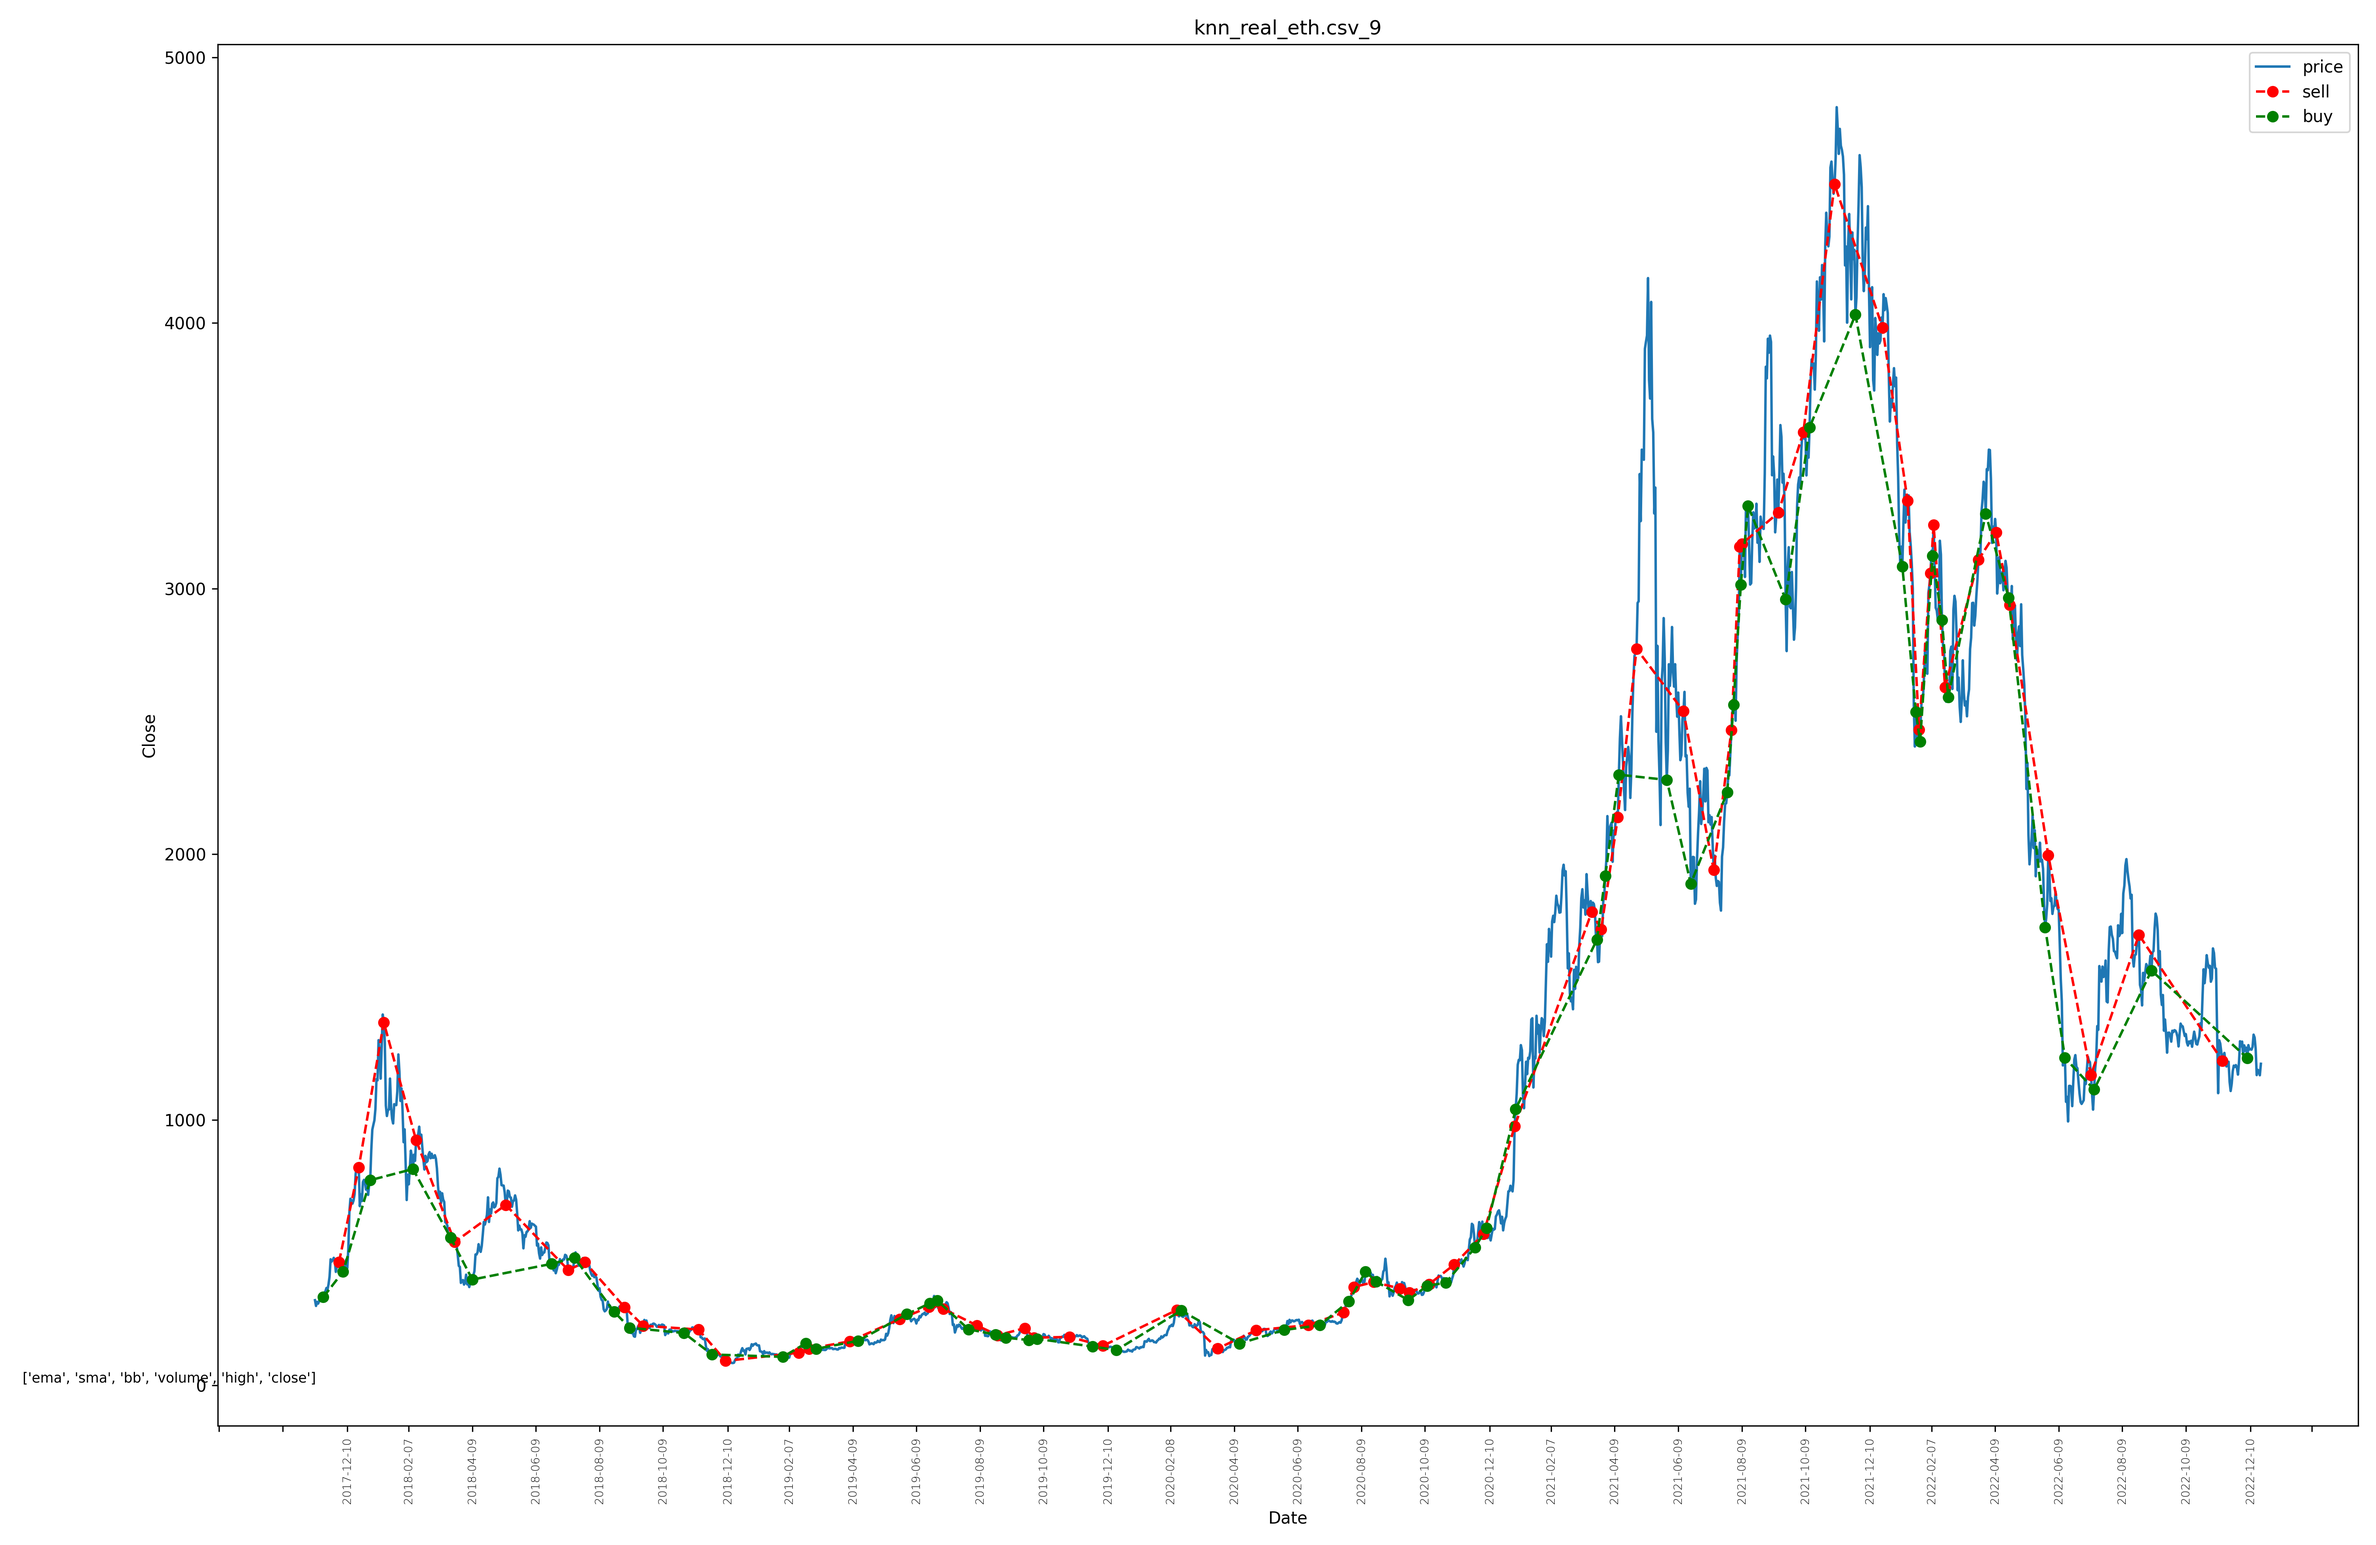
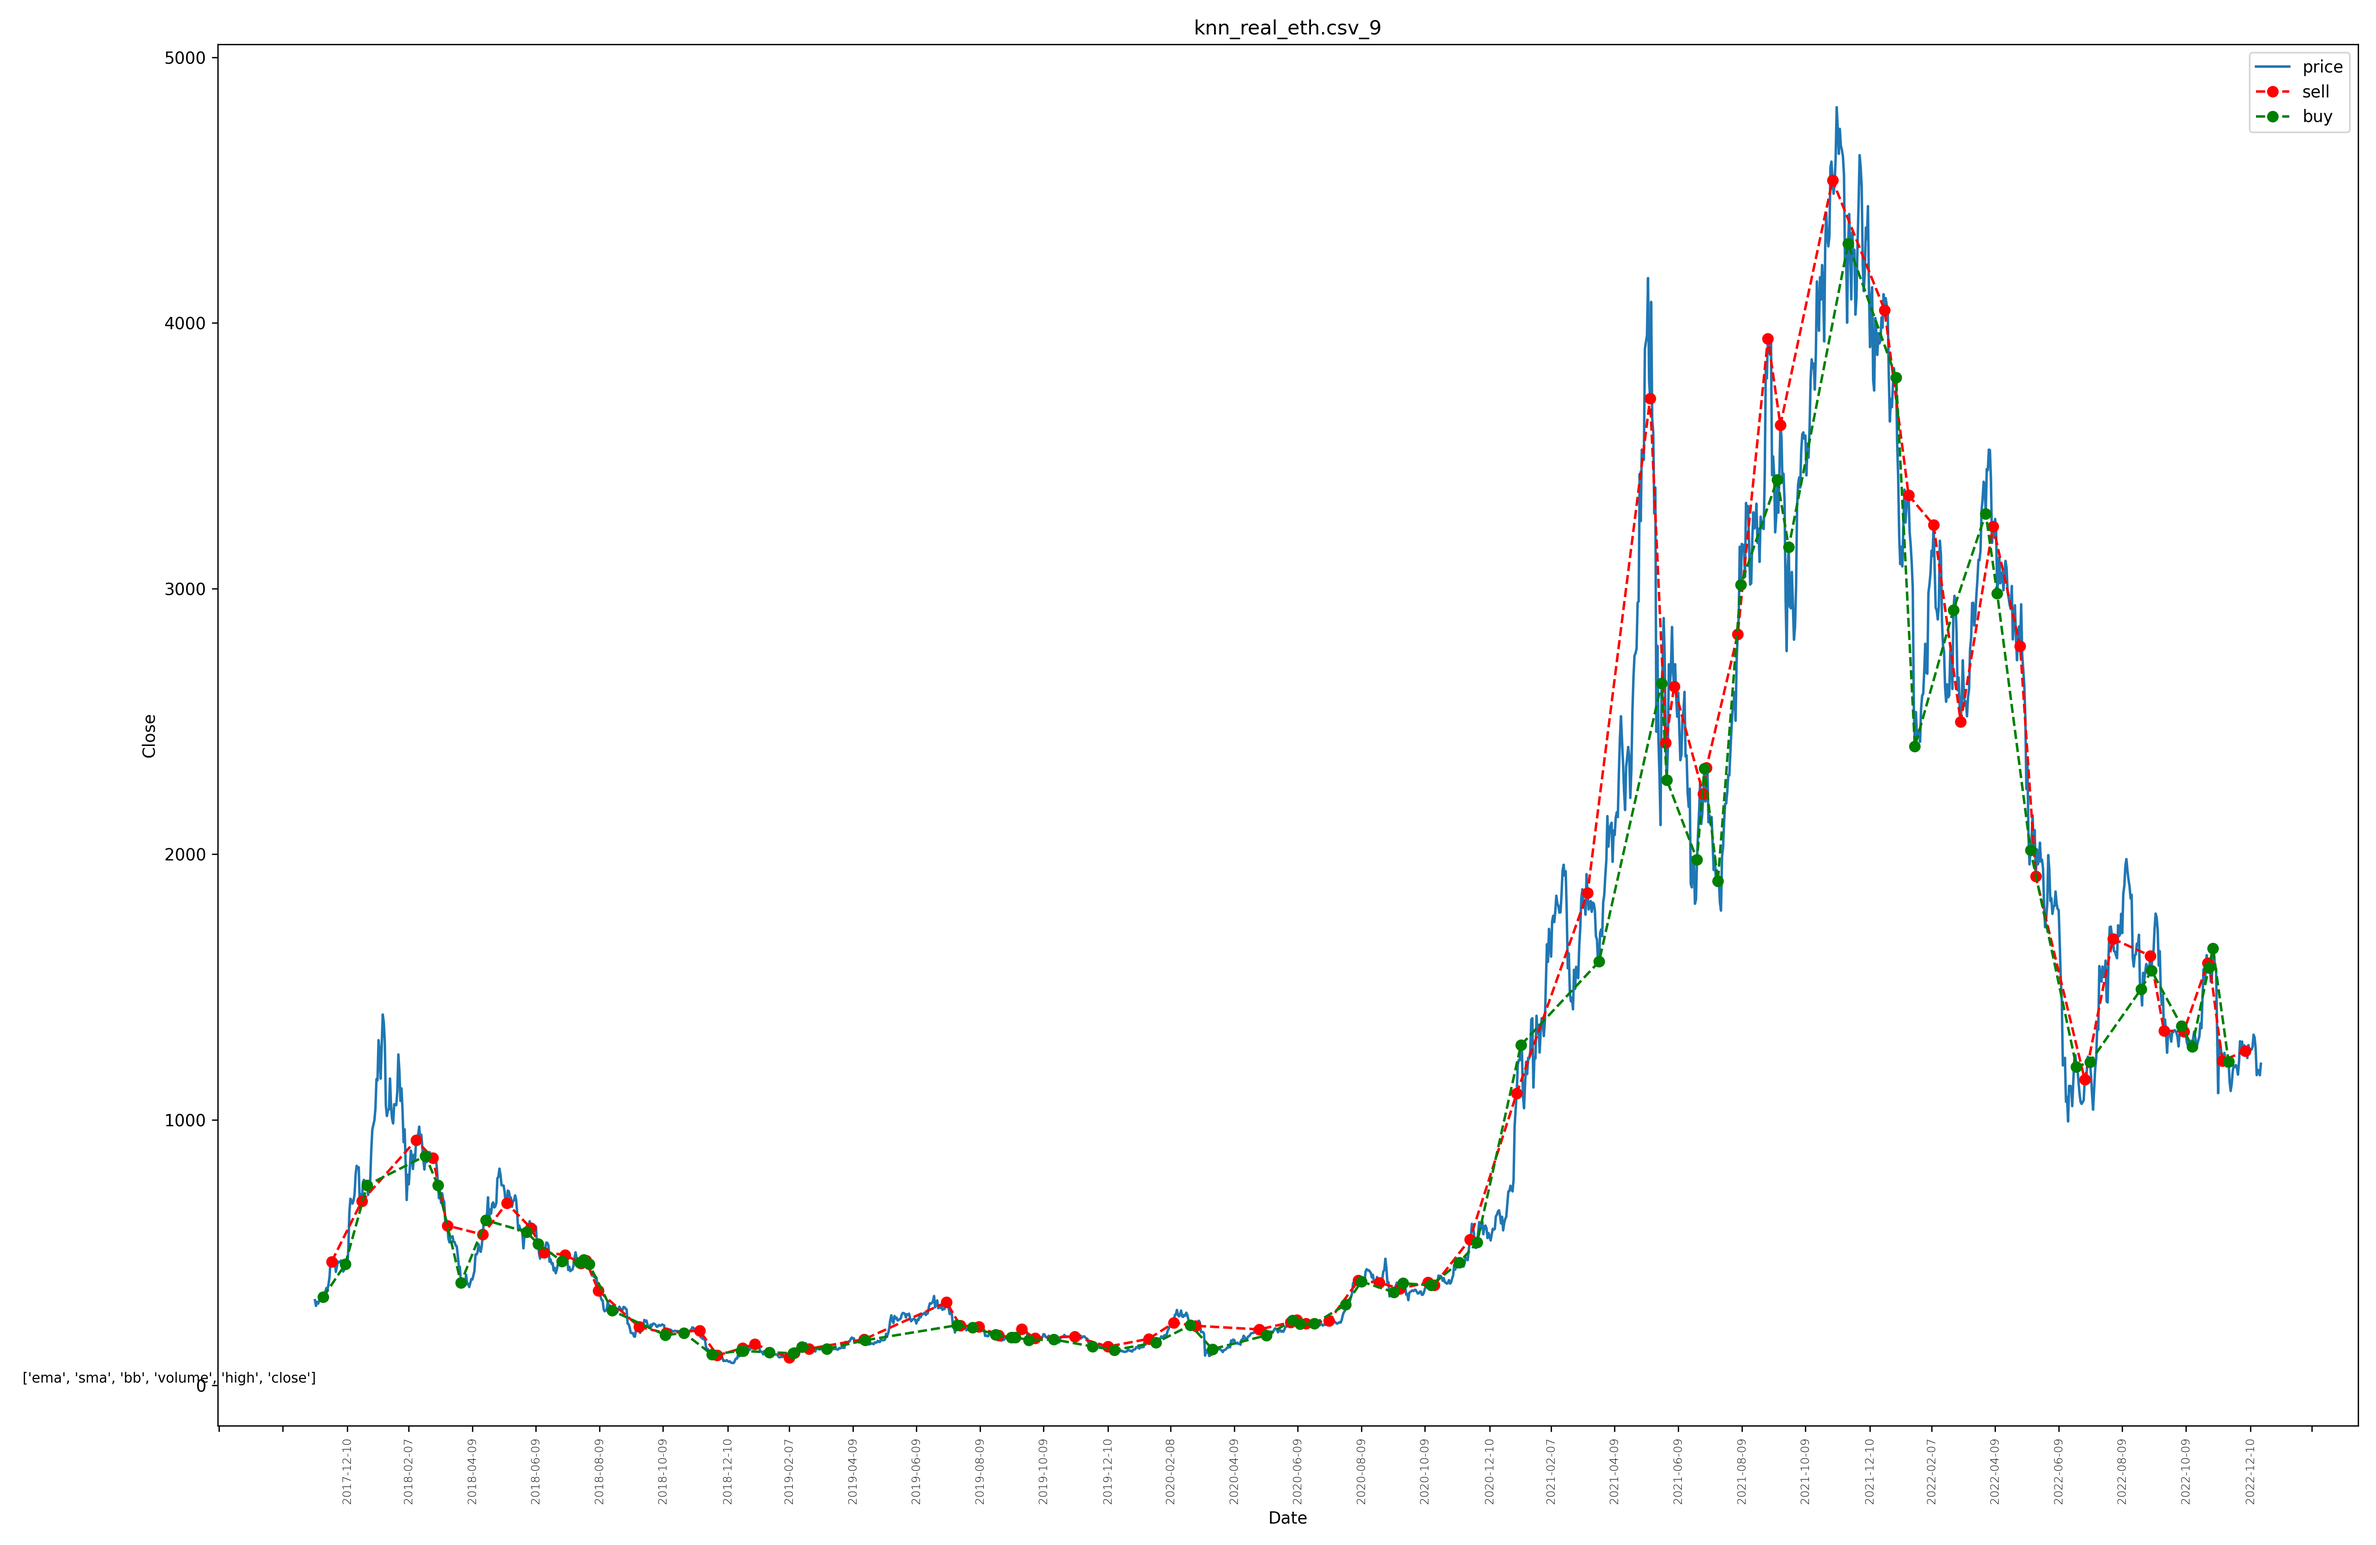
zsdf

diff --git a/analyzer.py b/analyzer.py
@@ -1,7 +1,7 @@
 import pandas as pd
 import numpy as np
 import matplotlib
-
+from datetime import datetime
 matplotlib.use('TkAgg')
 
 import matplotlib.dates as mdates
@@ -91,6 +91,32 @@ def compute_simple_baseline(close_df, share_amount, start_val, commission=9.95, 
     print('The share increased by {} %'.format(percent_increase))
     return filled_orders
 
+def compute_yearly_gains(order_book):
+    yearly_gains_dict = {}
+    order_book_start = datetime.strptime(order_book.index[0], '%Y-%m-%d')
+    order_book_end = datetime.strptime(order_book.index[-1], '%Y-%m-%d')
+    x = 1
+    date_holder = '{}-{}-{}'.format(order_book_start.year, order_book_start.month, order_book_start.day)
+    next_years_date = '{}-{}-{}'.format(order_book_start.year + x, order_book_start.month, order_book_start.day)
+    while int(next_years_date.split('-')[0]) <= int(order_book_end.year):
+        yearly_gain = ((order_book.loc[date_holder:next_years_date].sum()['total_liquid_cash'] - order_book.loc[:date_holder]['total_liquid_cash'][-1])/abs(order_book.loc[:date_holder]['total_liquid_cash'][-1]) * 100)
+        print('From {} to {} the yearly gain is {}'.format(date_holder, next_years_date, yearly_gain))
+        date_holder = next_years_date
+        yearly_gains_dict[x] = yearly_gain
+        x += 1
+        next_years_date = '{}-{}-{}'.format(order_book_start.year + x, order_book_start.month, order_book_start.day)
+
+    order_book_end_str = '{}-{}-{}'.format(order_book_end.year, order_book_end.month, order_book_end.day)
+    remaining_gains = order_book.loc[date_holder:order_book_end_str].sum()['total_liquid_cash']
+    if remaining_gains > 0.0:
+        yearly_gain = ((order_book.loc[date_holder:order_book_end_str].sum()['total_liquid_cash'] -
+                        order_book.loc[:date_holder]['total_liquid_cash'][-1]) / abs(order_book.loc[:date_holder]['total_liquid_cash'][-1]) * 100)
+        yearly_gains_dict[x] = yearly_gain
+
+    total_percent_gain = ((order_book['total_liquid_cash'].sum() - order_book['total_liquid_cash'][0]) / abs(
+        order_book['total_liquid_cash'][0])) * 100
+    print('THE TOTAL % gain : {}'.format(total_percent_gain))
+    return yearly_gains_dict
 
 def compute_spy(spy_df, share_amount, start_val, commission=9.95, impact=0.005):
     spy_df_copy = spy_df.copy()
@@ -129,10 +155,15 @@ def compare_strategies(buy_sell_order_book, long_short_order_book, target_close_
                      args["indicators"], args['length'])
     print('generating buy and sell')
     buy_sell_portfolio_values = compute_portvals(buy_sell_order_book, target_close_df, args['starting_value'])
-    compute_simple_baseline(target_close_df, args['share_amount'], args['starting_value'])
-    spy_portfolio_values = compute_spy(spy_close_df, args['share_amount'], args['starting_value'], commission=0,
-                                       impact=0)
+    target_hold_portfolio = compute_simple_baseline(target_close_df, int(args['share_amount']), args['starting_value'])
+    spy_hold_portfolio = spy_portfolio_values = compute_spy(spy_close_df, int(args['share_amount']), args['starting_value'], commission=0, impact=0)
     graph_spy(spy_portfolio_values, spy_close_df)
+    import pdb
+    pdb.set_trace()
+    # compute_yearly_gains(long_short_portfolio_values)
+    compute_yearly_gains(buy_sell_portfolio_values)
+    # compute_yearly_gains(target_hold_portfolio)
+    # compute_yearly_gains(spy_hold_portfolio)
 
 
 

diff --git a/tester.py b/tester.py
@@ -2,27 +2,49 @@ import unittest
 import os
 from utils import constants
 import pandas as pd
-from analyzer import compute_portvals, graph_order_book
+from analyzer import compute_portvals, graph_order_book, compute_yearly_gains
 import tech_indicators
-
+from datetime import datetime
 
 class TestMarketSimETH(unittest.TestCase):
     def setUp(self):
         file_name = os.path.join(constants.YAHOO_DATA_DIR, 'real_eth.csv')
         self.data_frame_from_file = tech_indicators.read_df_from_file(file_name)
-        self.order_bk = pd.read_csv('tester1.csv', index_col=[0], header=[0], skipinitialspace=True)
+        self.long_short_order_bk = pd.read_csv('tester1.csv', index_col=[0], header=[0], skipinitialspace=True)
 
-    def test_create_correct_order_book(self):
-        order_book = compute_portvals(self.order_bk, self.data_frame_from_file[['Close']])
-        sum_series = order_book.sum()
+    def test_create_long_short_portfolio(self):
+        portfolio = compute_portvals(self.long_short_order_bk, self.data_frame_from_file[['Close']], 0)
+        sum_series = portfolio.sum()
         self.assertEqual(sum_series['share_amount'], 18900.0)
         self.assertEqual(sum_series['bs_signal'], 1)
         self.assertEqual(sum_series['total_liquid_cash'], 938395.1612033314)
         self.assertEqual(sum_series['holding'], 100.0)
         self.assertEqual(sum_series['close'], 115489.94024682)
+        import pdb
+        pdb.set_trace()
+
+    def test_compute_yearly_gains(self):
+        portfolio = compute_portvals(self.long_short_order_bk, self.data_frame_from_file[['Close']], 0)
+        yearly_gains_dict = compute_yearly_gains(portfolio)
+        self.assertEqual(yearly_gains_dict[1], 564.3000105961332)
+        self.assertEqual(yearly_gains_dict[2], -100.08058630201029)
+        self.assertEqual(yearly_gains_dict[3], 136.26685212517867)
+        self.assertEqual(yearly_gains_dict[4], 316.76851649782077)
+        self.assertEqual(yearly_gains_dict[5], 154.6028791479902)
+
+        first = portfolio.loc['2017-12-10':'2018-12-10']['total_liquid_cash'].sum()
+        second = portfolio.loc['2018-12-10':'2019-12-10']['total_liquid_cash'].sum()
+        third = portfolio.loc['2019-12-10':'2020-12-10']['total_liquid_cash'].sum()
+        fourth = portfolio.loc['2020-12-10':'2021-12-10']['total_liquid_cash'].sum()
+        fifth = portfolio.loc['2021-12-10':'2022-12-10']['total_liquid_cash'].sum()
+
+        total_percent_gain = ((portfolio['total_liquid_cash'].sum() - portfolio['total_liquid_cash'][0])/abs(portfolio['total_liquid_cash'][0])) * 100
+
+        import pdb
+        pdb.set_trace()
+
 
     def test_create_ylabels(self):
         df_with_ytest = tech_indicators.create_ylabels(self.data_frame_from_file, lookahead_days=5)
-        import pdb
-        pdb.set_trace()
+
 

diff --git a/runner.py b/runner.py
@@ -26,17 +26,18 @@ if __name__ == "__main__":
     file_name = os.path.join(constants.YAHOO_DATA_DIR, args['file_name'])
     spy_file_name = os.path.join(constants.YAHOO_DATA_DIR, 'spy500.csv')
     args["indicators"] = [s.strip() for s in args["indicators"].split(",")]
-    data_frame_from_file = tech_indicators.read_df_from_file(file_name)
+    data_frame_from_ticker = tech_indicators.read_df_from_file(file_name)
     data_frame_from_spyfile = tech_indicators.read_df_from_file(spy_file_name)
     if args['model_name'] in NAME_TO_MODEL:
-        model_instance = NAME_TO_MODEL[args['model_name']](args, data_frame_from_file)
+        model_instance = NAME_TO_MODEL[args['model_name']](args, data_frame_from_ticker)
         model_instance.train_and_predict()
         # model_instance.generate_plots()
         analyzer.check_buy_sell_signals(model_instance.ypred, model_instance.ytest)
-        long_short_order_book = tech_indicators.add_long_short_shares(model_instance.ypred['bs_signal'], args['share_amount'])
-        buy_sell_order_book = tech_indicators.add_buy_sell_shares(model_instance.ypred['bs_signal'], args['share_amount'])
+        long_short_order_book = tech_indicators.add_long_short_shares(model_instance.ypred['bs_signal'], int(args['share_amount']))
+        buy_sell_order_book = tech_indicators.add_buy_sell_shares(model_instance.ypred['bs_signal'], int(args['share_amount']))
         # order_book.to_csv('tester.csv')
-        analyzer.compare_strategies(buy_sell_order_book, long_short_order_book, data_frame_from_file[['Close']], data_frame_from_spyfile[['Close']], args)
+        # tech_indicators.bbands_classification(data_frame_from_ticker)
+        analyzer.compare_strategies(buy_sell_order_book, long_short_order_book, data_frame_from_ticker[['Close']], data_frame_from_spyfile[['Close']], args)
         # same buy/long/sell/short signals, just quantity is different
         # analyzer.graph_order_book(buy_sell_portfolio_values, data_frame_from_file[['Close']], args['model_name'], args['file_name'], args["indicators"], args['length'])
 

diff --git a/tech_indicators.py b/tech_indicators.py
@@ -47,13 +47,13 @@ def bbands_classification(close_prices_data_frame, lower_bb, upper_bb):
     sell_price = []
     bb_signal = []
     signal = 0
-    closed_prices = close_prices_data_frame['Close']
+    close_prices_df_copy = close_prices_data_frame.copy()
     close_prices_data_frame = close_prices_data_frame.iloc[1:]  # base buy/sell off previous prices -1 len
-    for i in range(1, len(closed_prices)):
+    for i in range(1, len(close_prices_df_copy['Close'])):
         # BUY if dips lower than lower BB
-        if closed_prices[i - 1] > lower_bb[i - 1] and closed_prices[i] < lower_bb[i]:
+        if close_prices_df_copy['Close'][i - 1] > lower_bb[i - 1] and close_prices_df_copy['Close'][i] < lower_bb[i]:
             if signal != 1:  # don't buy until sell
-                buy_price.append(closed_prices[i])
+                buy_price.append(close_prices_df_copy['Close'][i])
                 sell_price.append(np.nan)
                 signal = 1
                 bb_signal.append(signal)
@@ -62,10 +62,10 @@ def bbands_classification(close_prices_data_frame, lower_bb, upper_bb):
                 sell_price.append(np.nan)
                 bb_signal.append(0)
         # SELL if rises above higher BB
-        elif closed_prices[i - 1] < upper_bb[i - 1] and closed_prices[i] > upper_bb[i]:
+        elif close_prices_df_copy['Close'][i - 1] < upper_bb[i - 1] and close_prices_df_copy['Close'][i] > upper_bb[i]:
             if signal != -1:  # don't sell until buy
                 buy_price.append(np.nan)
-                sell_price.append(closed_prices[i])
+                sell_price.append(close_prices_df_copy['Close'][i])
                 signal = -1
                 bb_signal.append(signal)
             else:
